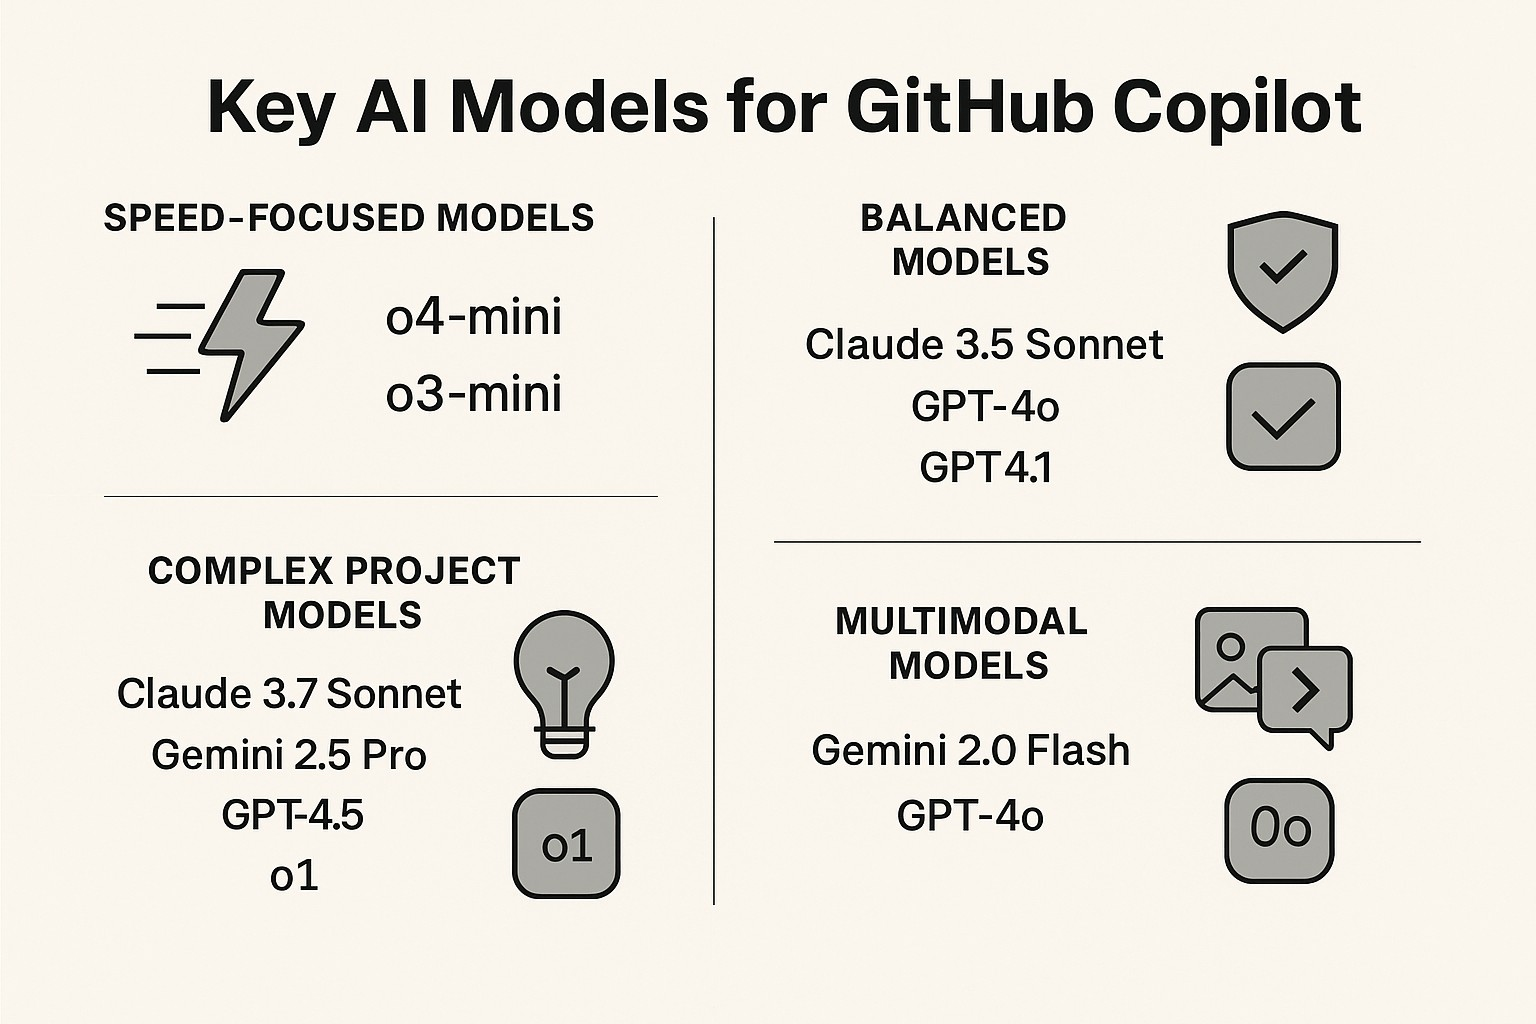
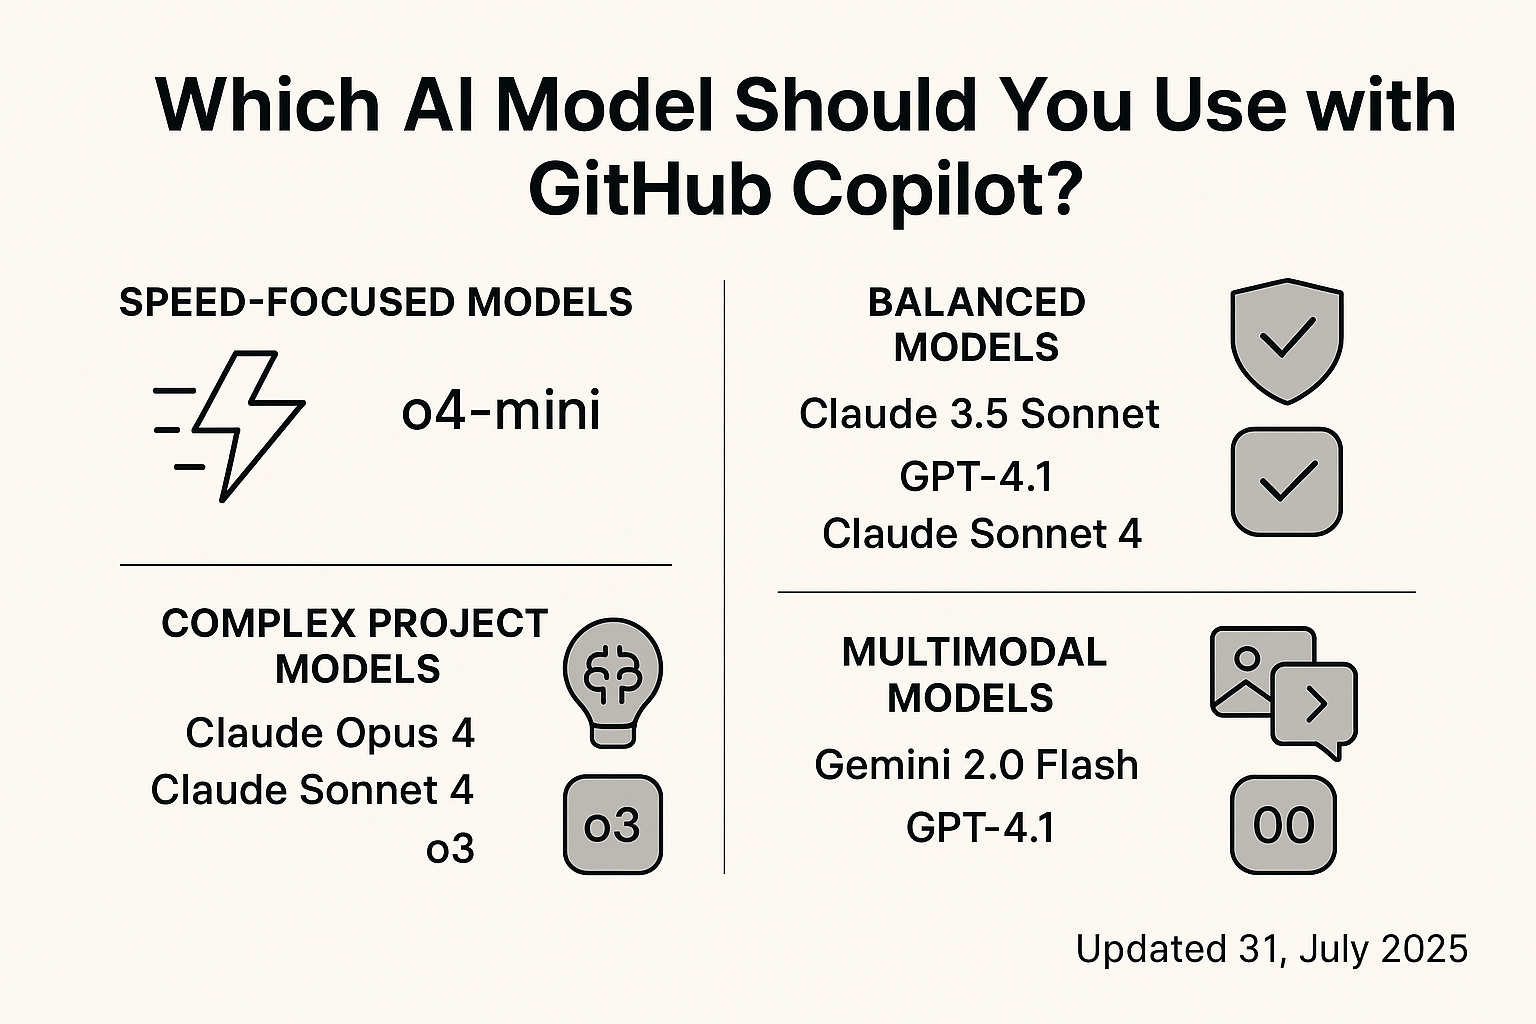
Update article

diff --git a/content/posts/2025-04-28-which-ai-model-to-use-with-github-copilot/index.md b/content/posts/2025-04-28-which-ai-model-to-use-with-github-copilot/index.md
@@ -2,6 +2,7 @@
 title = 'Which AI Model Should You Use with GitHub Copilot?'
 slug = 'which-ai-model-to-use-with-github-copilot'
 date = '2025-04-28 06:00:00Z'
+lastmod = '2025-07-31 06:00:00Z'
 draft = false
 tags = ['AI Models', 'GitHub Copilot', 'Programming']
 categories = ['AI', 'Development']
@@ -20,7 +21,7 @@ Choosing the right AI model for your GitHub Copilot project can be tricky. Each 
 
 {{< notice-card info "Big disclaimer!">}}
 
-AI evolves rapidly, so these recommendations might change soon. As of mid-April 2025, this is the current landscape.
+AI evolves rapidly, so these recommendations might change soon. As of July 31, 2025, this is the current landscape.
 
 {{< /notice-card >}}
 
@@ -28,18 +29,18 @@ Whether you need speed, depth, or a balance of both, understanding what each mod
 
 ## The TL;DR
 
-- 💳 For a balance of cost and performance: GPT-4.1, GPT-4o, or Claude 3.5 Sonnet are solid choices.
-- 🪙 For fast, lightweight tasks: o4-mini or Claude 3.5 Sonnet work well.
-- 💎 For deep reasoning or complex debugging: Claude 3.7 Sonnet, o3, or GPT-4.5 are ideal.
-- 🖼 For multimodal inputs (like images): Gemini 2.0 Flash or GPT-4o are your go-to options.
+- 💳 For a balance of cost and performance: GPT-4.1, Claude Sonnet 4, or Claude 3.5 Sonnet are solid choices.
+- 🪙 For fast, lightweight tasks: o4-mini, Claude 3.5 Sonnet, or Gemini 2.0 Flash work well.
+- 💎 For deep reasoning or complex debugging: Claude Opus 4, Claude Sonnet 4, o3, or Gemini 2.5 Pro are ideal.
+- 🖼 For multimodal inputs (like images): Gemini 2.0 Flash or GPT-4.1 are your go-to options.
 
 These are general guidelines, but experimenting with different models can help you find the best fit for your specific needs.
 
 ## 🏎 Prioritizing speed
 
-### o4-mini and o3-mini: The speed specialists 😈
+### o4-mini: The speed specialist 😈
 
-If you need quick results without overcomplicating things, o4-mini and o3-mini are excellent options. They’re fast, efficient, and cost-effective.
+If you need quick results without overcomplicating things, o4-mini is an excellent option. It’s fast, efficient, and cost-effective.
 
 ✅ **Best for**:
 
@@ -48,7 +49,7 @@ If you need quick results without overcomplicating things, o4-mini and o3-mini a
 - Learning new programming concepts.
 - Generating boilerplate code.
 
-👀 **Consider other models if**: Your task involves multiple files or requires deep reasoning. In such cases, models like **GPT-4.5** or **o3** are better suited. For more expressive outputs, **GPT-4o** is a great alternative.
+👀 **Consider other models if**: Your task involves multiple files or requires deep reasoning. In such cases, models like **Claude Sonnet 4**, **Claude Opus 4**, or **o3** are better suited. For more expressive outputs, **GPT-4.1** is a great alternative.
 
 ## ⚖ Balanced AI models
 
@@ -62,11 +63,11 @@ Claude 3.5 Sonnet strikes a balance between performance and cost, making it a de
 - Answering language-specific questions.
 - Generating concise code snippets.
 
-👀 **Consider other models if**: You need advanced reasoning or multi-step planning. For such tasks, **Claude 3.7 Sonnet** or **GPT-4.5** are better options.
+👀 **Consider other models if**: You need advanced reasoning or multi-step planning. For such tasks, **Claude Sonnet 4** or **Claude Opus 4** are better options.
 
-### GPT-4o and GPT-4.1: The versatile performers 🌎
+### GPT-4.1: The versatile performer 🌎
 
-These models are highly flexible and can handle a wide range of tasks. Whether you need quick responses or support for text and images, they’ve got you covered.
+GPT-4.1 is highly flexible and can handle a wide range of tasks. Whether you need quick responses or support for text and images, it’s got you covered.
 
 ✅ **Best for**:
 
@@ -75,13 +76,13 @@ These models are highly flexible and can handle a wide range of tasks. Whether y
 - Generating reusable code snippets.
 - Handling multilingual prompts.
 
-👀 **Consider other models if**: You’re tackling complex architectural reasoning or multi-step debugging. In such cases, **GPT-4.5** or **Claude 3.7 Sonnet** are more effective.
+👀 **Consider other models if**: You’re tackling complex architectural reasoning or multi-step debugging. In such cases, **Claude Sonnet 4**, **Claude Opus 4**, or **o3** are more effective.
 
 ## 🧠 Models for complex projects
 
-### Claude 3.7 Sonnet: The problem solver 🏠
+### Claude Sonnet 4: The problem solver 🏠
 
-Claude 3.7 Sonnet is designed for large, intricate projects. It excels in tasks that require deep context and detailed analysis.
+Claude Sonnet 4 is designed for large, intricate projects. It excels in tasks that require deep context and detailed analysis, and is the successor to Claude 3.7 Sonnet.
 
 ✅ **Best for**:
 
@@ -90,11 +91,24 @@ Claude 3.7 Sonnet is designed for large, intricate projects. It excels in tasks 
 - Designing algorithms.
 - Combining high-level summaries with in-depth analysis.
 
-👀 **Consider other models if**: You’re working on simpler tasks or need faster iterations. **Claude 3.5 Sonnet** or **GPT-4o** might be more efficient.
+👀 **Consider other models if**: You’re working on simpler tasks or need faster iterations. **Claude 3.5 Sonnet** or **o4-mini** might be more efficient.
 
-### Gemini 2.5 Pro: The advanced researcher 🔎
+### Claude Opus 4: The advanced problem solver 🏆
 
-Gemini 2.5 Pro is built for tackling challenging problems. It’s ideal for tasks that demand advanced reasoning and long-context capabilities.
+Claude Opus 4 is Anthropic’s most powerful model, built for tackling the most challenging problems. It’s ideal for tasks that demand advanced reasoning, multi-layered logic, and long-context capabilities.
+
+✅ **Best for**:
+
+- Writing full functions, classes, or multi-file logic.
+- Debugging complex systems.
+- Planning and analyzing complex architectures.
+- Processing extensive datasets or documents.
+
+👀 **Consider other models if**: Budget is a concern. For cost-effective alternatives, try **Claude Sonnet 4** or **o4-mini**.
+
+### Gemini 2.5 Pro: The advanced researcher �
+
+Gemini 2.5 Pro is built for advanced reasoning, long-context analysis, and research workflows. It’s ideal for scientific data, multi-file logic, and complex debugging.
 
 ✅ **Best for**:
 
@@ -105,22 +119,9 @@ Gemini 2.5 Pro is built for tackling challenging problems. It’s ideal for task
 
 👀 **Consider other models if**: Budget is a concern. For cost-effective alternatives, try **o4-mini** or **Gemini 2.0 Flash**.
 
-### GPT-4.5: The deep thinker 💭
+### o3: The precision expert 🥽
 
-When you’re dealing with nuanced problems or need to design complex systems, GPT-4.5 is a strong choice.
-
-✅ **Best for**:
-
-- Writing detailed README files.
-- Generating full functions or multi-file solutions.
-- Debugging intricate errors.
-- Making architectural decisions.
-
-👀 **Consider other models if**: You’re working on smaller tasks or need faster results. **GPT-4o** is a quicker and more cost-effective option.
-
-### o3 and o1: The precision experts 🥽
-
-For tasks that require logical precision and step-by-step problem-solving, o3 and o1 are excellent.
+For tasks that require logical precision and step-by-step problem-solving, o3 is excellent.
 
 ✅ **Best for**:
 
@@ -129,7 +130,7 @@ For tasks that require logical precision and step-by-step problem-solving, o3 an
 - Writing structured, reusable code.
 - Summarizing logs or benchmarks.
 
-👀 **Consider other models if**: You’re in the early stages of prototyping or need something lightweight. **o4-mini** or **GPT-4o** might be better suited.
+👀 **Consider other models if**: You’re in the early stages of prototyping or need something lightweight. **o4-mini** or **GPT-4.1** might be better suited.
 
 ## 🖼 Multimodal capabilities
 
@@ -144,7 +145,7 @@ If your work involves visual inputs like diagrams or UI mockups, Gemini 2.0 Flas
 - Generating code snippets.
 - Providing design feedback.
 
-👀 **Consider other models if**: Your task requires detailed algorithmic reasoning. **GPT-4.5** or **Claude 3.7 Sonnet** are better equipped for such challenges.
+👀 **Consider other models if**: Your task requires detailed algorithmic reasoning. **Claude Opus 4** or **Gemini 2.5 Pro** are better equipped for such challenges.
 
 ## Final thoughts
 
